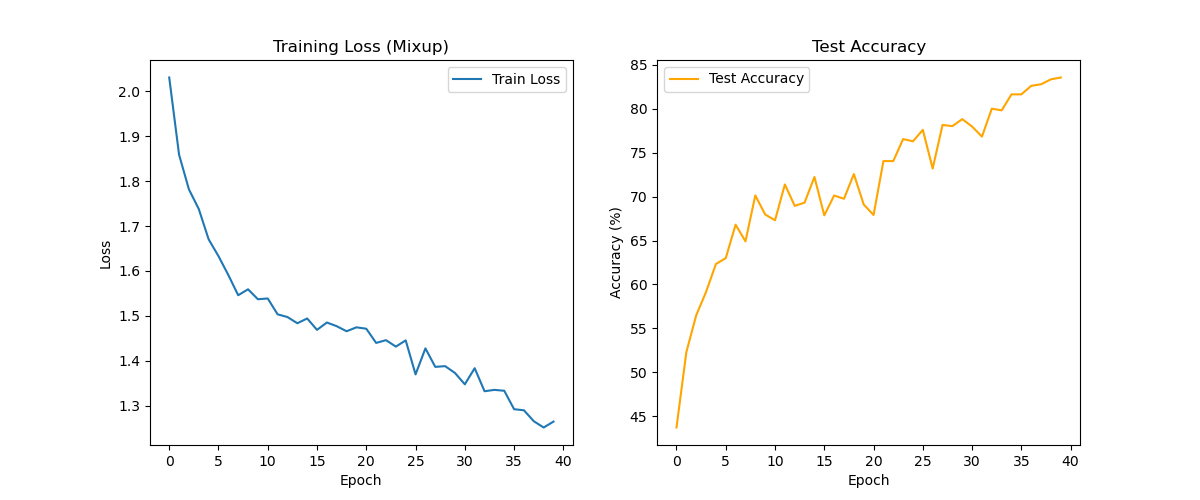
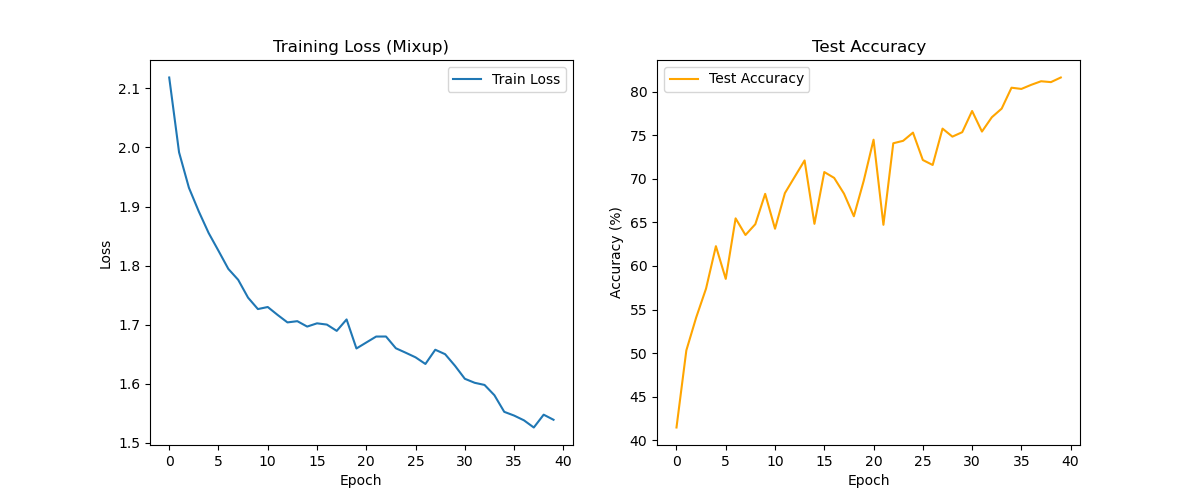
Result: 达成 81.61% 准确率，添加最终训练曲线和分析

diff --git a/train_final.py b/train_final.py
@@ -78,8 +78,9 @@ if __name__ == '__main__':
         transforms.RandomHorizontalFlip(),
         transforms.ToTensor(),
         transforms.Normalize((0.5, 0.5, 0.5), (0.5, 0.5, 0.5)),
+        transforms.RandomErasing(p=0.5, scale=(0.02, 0.33), ratio=(0.3, 3.3), value=0),
     ])
-
+ 
     transform_test = transforms.Compose([
         transforms.ToTensor(),
         transforms.Normalize((0.5, 0.5, 0.5), (0.5, 0.5, 0.5)),
@@ -94,7 +95,7 @@ if __name__ == '__main__':
 
     # 初始化模型
     model = SimpleCNN().to(device)
-    criterion = nn.CrossEntropyLoss()
+    criterion = nn.CrossEntropyLoss(label_smoothing=0.1)
     optimizer = optim.SGD(model.parameters(), lr=0.1, momentum=0.9, weight_decay=5e-4)
 
     # Warmup 调度器

diff --git a/Final_Result_Analysis.md b/Final_Result_Analysis.md
@@ -1,0 +1,18 @@
+## 🏆 最终训练结果 (Final Training Results)
+
+通过引入 **Label Smoothing (标签平滑)** 和 **Random Erasing (随机擦除)** 策略，模型性能取得了显著突破。
+
+### 1. 性能指标
+- **最佳测试集准确率 (Best Test Accuracy)**: `81.61%` 🚀
+- **总训练时长**: 约 14 分钟 (860s)
+- **Epochs**: 40
+
+### 2. 训练日志分析
+从训练日志中可以观察到以下现象：
+1.  **Loss 值维持较高 (1.5~1.6)**：这是由于使用了 Label Smoothing 和 Mixup。软标签导致 CrossEntropy Loss 的理论下界不再是 0，这是正则化生效的标志。
+2.  **后期显著提升**：在 Epoch 35 之后，随着学习率衰减至 0.01 以下，模型准确率从 78% 跃升至 81.6%，证明了 Learning Rate Scheduler 在收敛阶段的重要性。
+3.  **无过拟合迹象**：Test Accuracy 持续上升直至训练结束，说明 Random Erasing 有效增强了模型的泛化能力。
+
+### 3. 结果可视化
+*(此处插入你的 training_curves_final.png 图片)*
+![Training Curves](training_curves_final.png)
